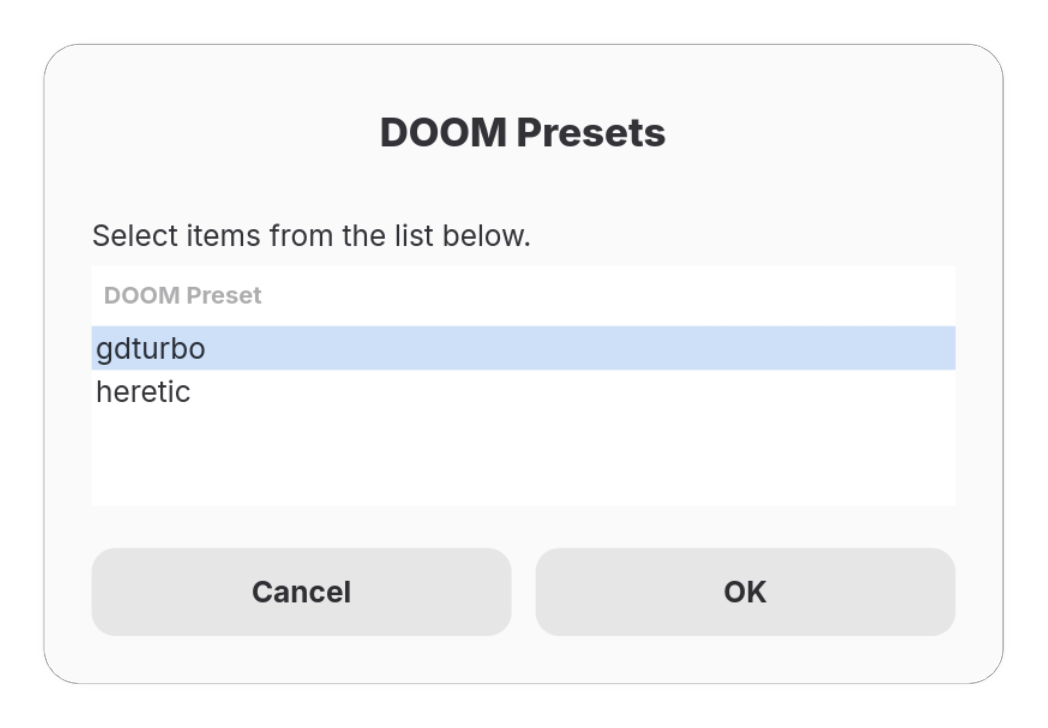
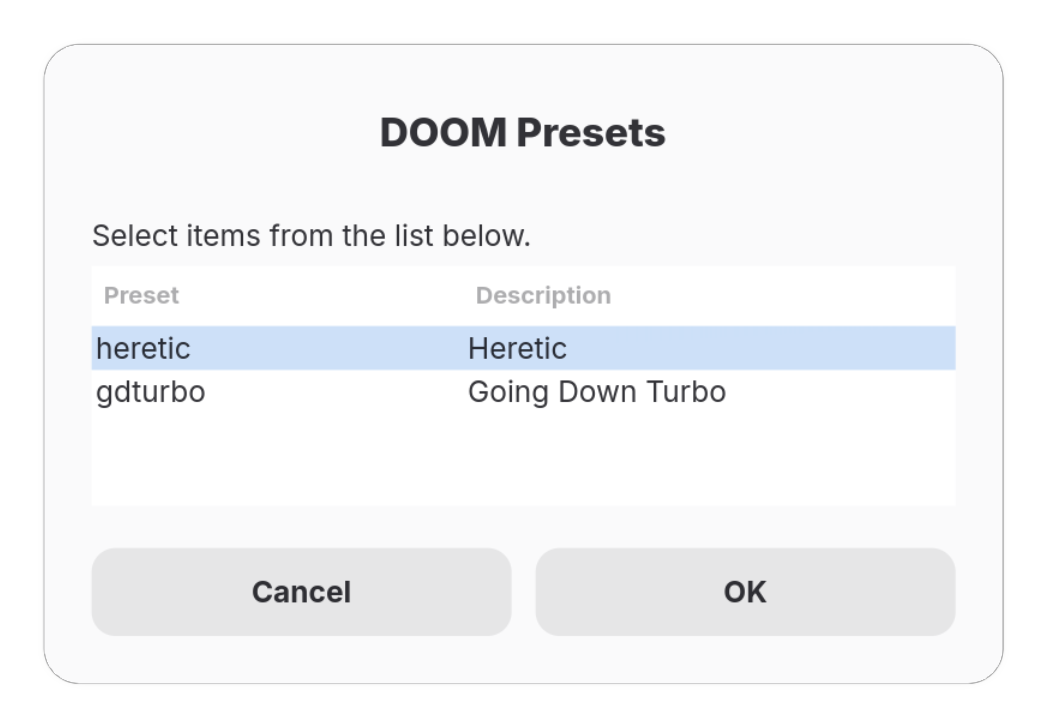
We need a description field

diff --git a/README.md b/README.md
@@ -28,7 +28,8 @@ Using a powerful text editor that auto-completes file paths and supports json sc
             "file": [
                 "/home/dugan/archives/pwads/HRSPFX10/HRSPFX10.WAD",
                 "/home/dugan/archives/pwads/HRSPFX10/HRWIDE10.WAD"
-            ]
+            ],
+            "description": "Heretic"
         },
         "gdturbo": {
             "engine": "/home/dugan/Applications/Woof-15.3.0-Linux.appimage",
@@ -40,7 +41,8 @@ Using a powerful text editor that auto-completes file paths and supports json sc
             ],
             "deh": [
                 "/home/dugan/archives/pwads/sprfix20/D2SPFX20.WAD"
-            ]
+            ],
+            "description": "Going Down Turbo"
         }
     }
 
